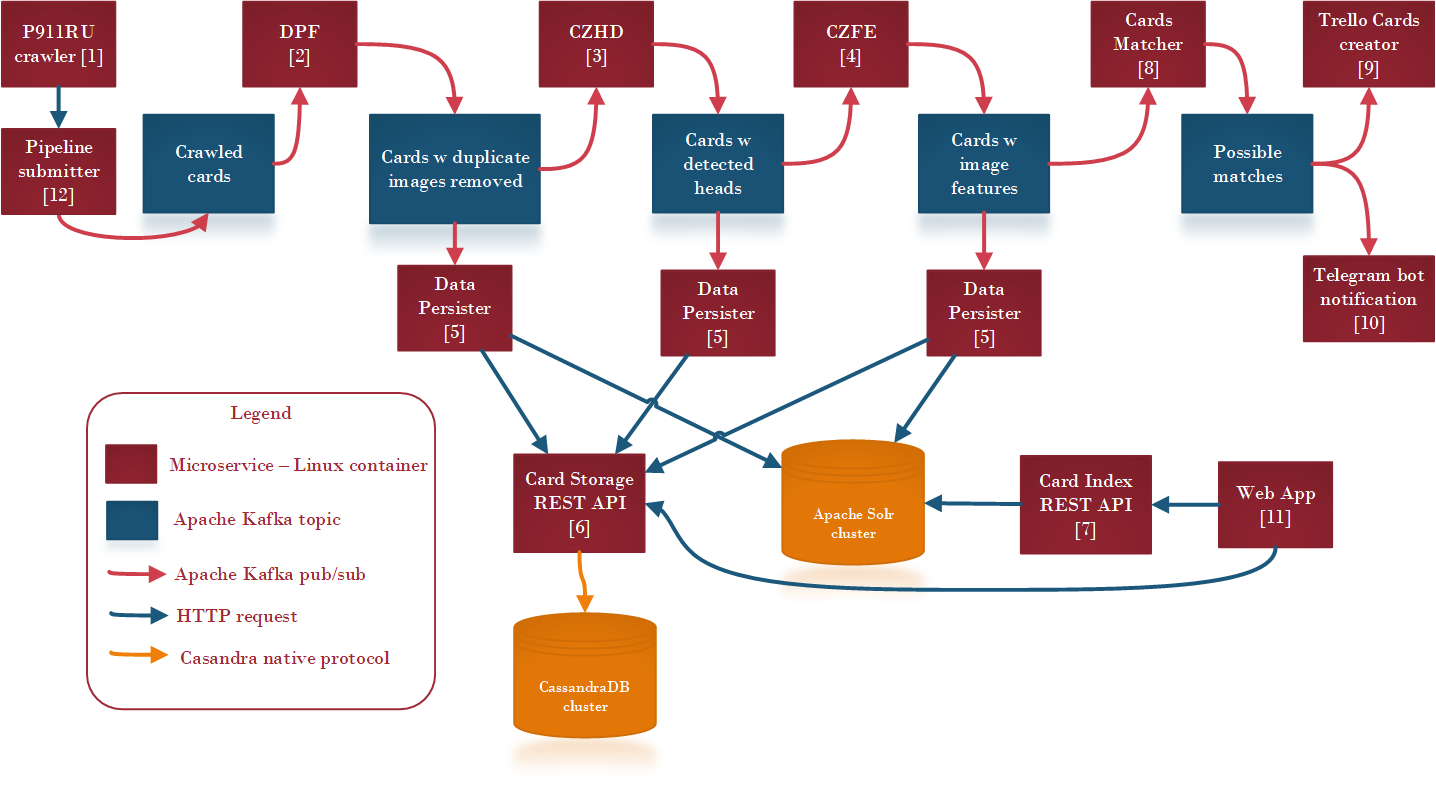
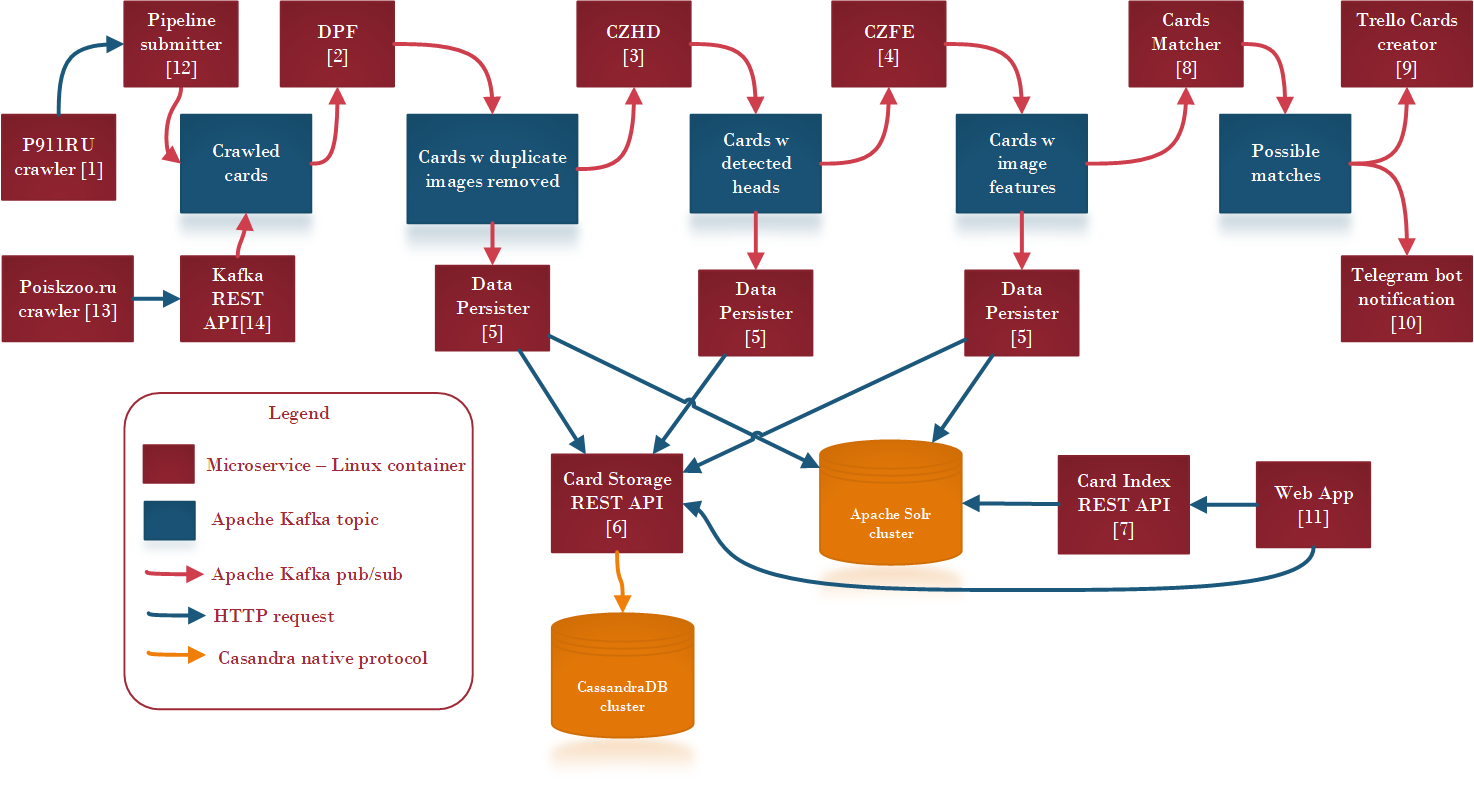
Adding poiskzoo.ru crawling

diff --git a/README.md b/README.md
@@ -27,6 +27,8 @@ The table lists microservices depicted on the figure.
 |  10      | Telegram notifier | Sends messages about new found matches into the Telegram channel | RBD |   |
 |  11      | Web app | The web application of the system  | [Standalone repo](https://github.com/LostPetInitiative/WebApp) | [![Latest docker image version](https://img.shields.io/docker/v/lostpetinitiative/kashtanka-web-app?label=docker%20image&sort=semver)](https://hub.docker.com/r/lostpetinitiative/kashtanka-web-app) |
 |  12      | Pipeline submitter | REST API for pushing cards into ML data processing pipeline | [Separate directory](https://github.com/LostPetInitiative/Kashtanka/tree/main/images/crawlerPet911ruPipelineNotifier)| [![Latest docker image version](https://img.shields.io/docker/v/lostpetinitiative/crawler-pet911ru-pipeline-submitter?label=docker%20image&sort=semver)](https://hub.docker.com/r/lostpetinitiative/crawler-pet911ru-pipeline-submitter)  |
+|  13      | Poiskzoo.ru crawler | Periodically crawles new card on [poiskzoo.ru](https://poiskzoo.ru) | [Standalone repo](https://github.com/LostPetInitiative/poiskzoo-ru-crawler)| [![Latest docker image version](https://img.shields.io/docker/v/lostpetinitiative/poiskzoo-ru-crawler?label=docker%20image&sort=semver)](https://hub.docker.com/r/lostpetinitiative/poiskzoo-ru-crawler)  |
+|  14      | Kafka REST API | REST API for pushing any messages to Kafka topics | [Separate directory](https://github.com/LostPetInitiative/Kashtanka/tree/main/images/kafkaRestAPI)| [![Latest docker image version](https://img.shields.io/docker/v/lostpetinitiative/kafka-rest-api?label=docker%20image&sort=semver)](https://hub.docker.com/r/lostpetinitiative/kafka-rest-api)  |
 
 
 ## Prerequisites
